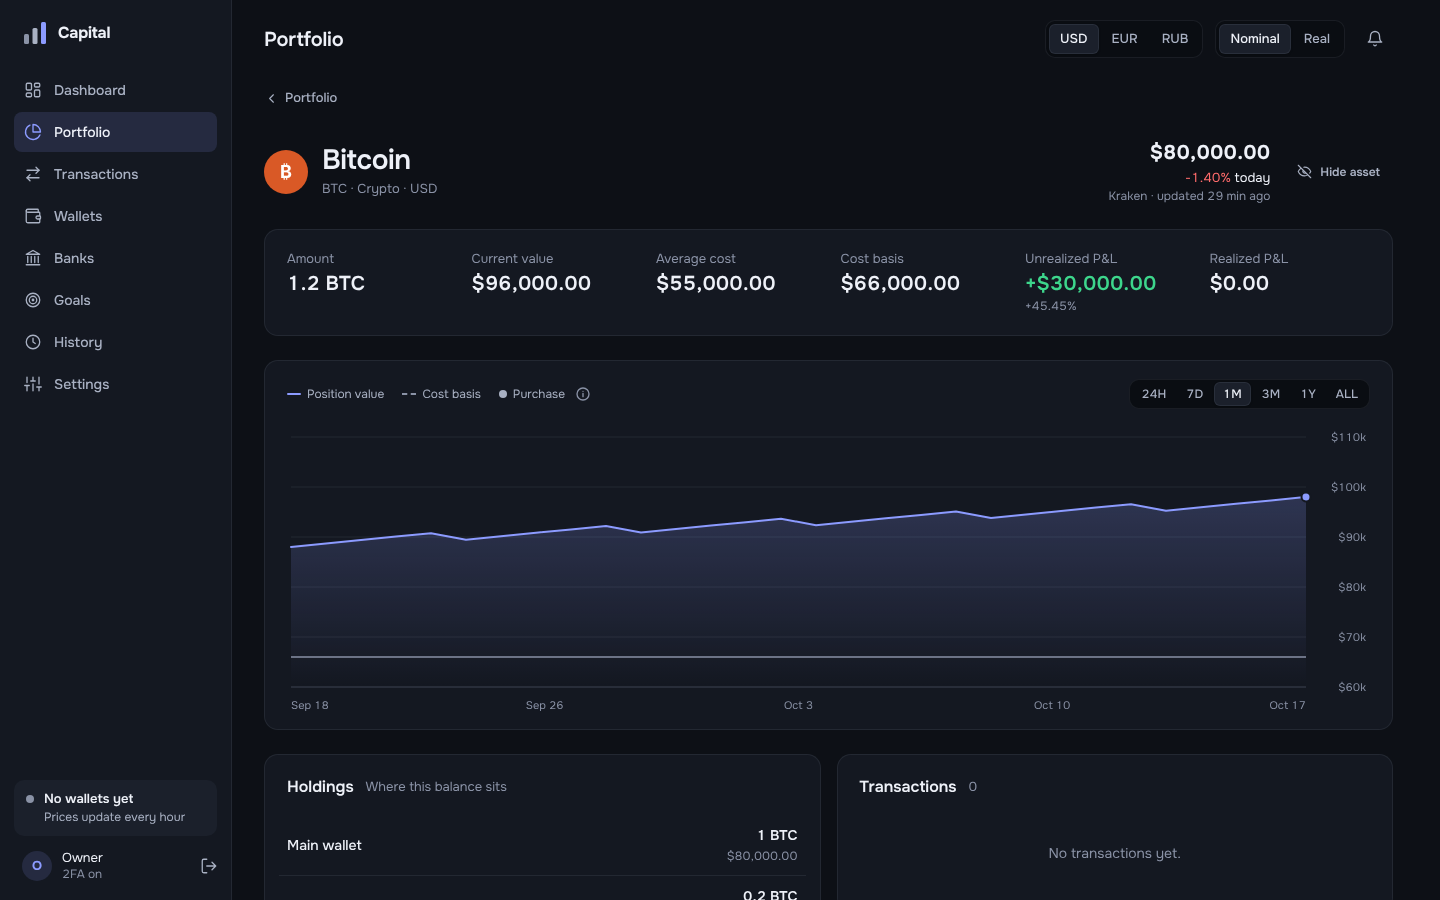
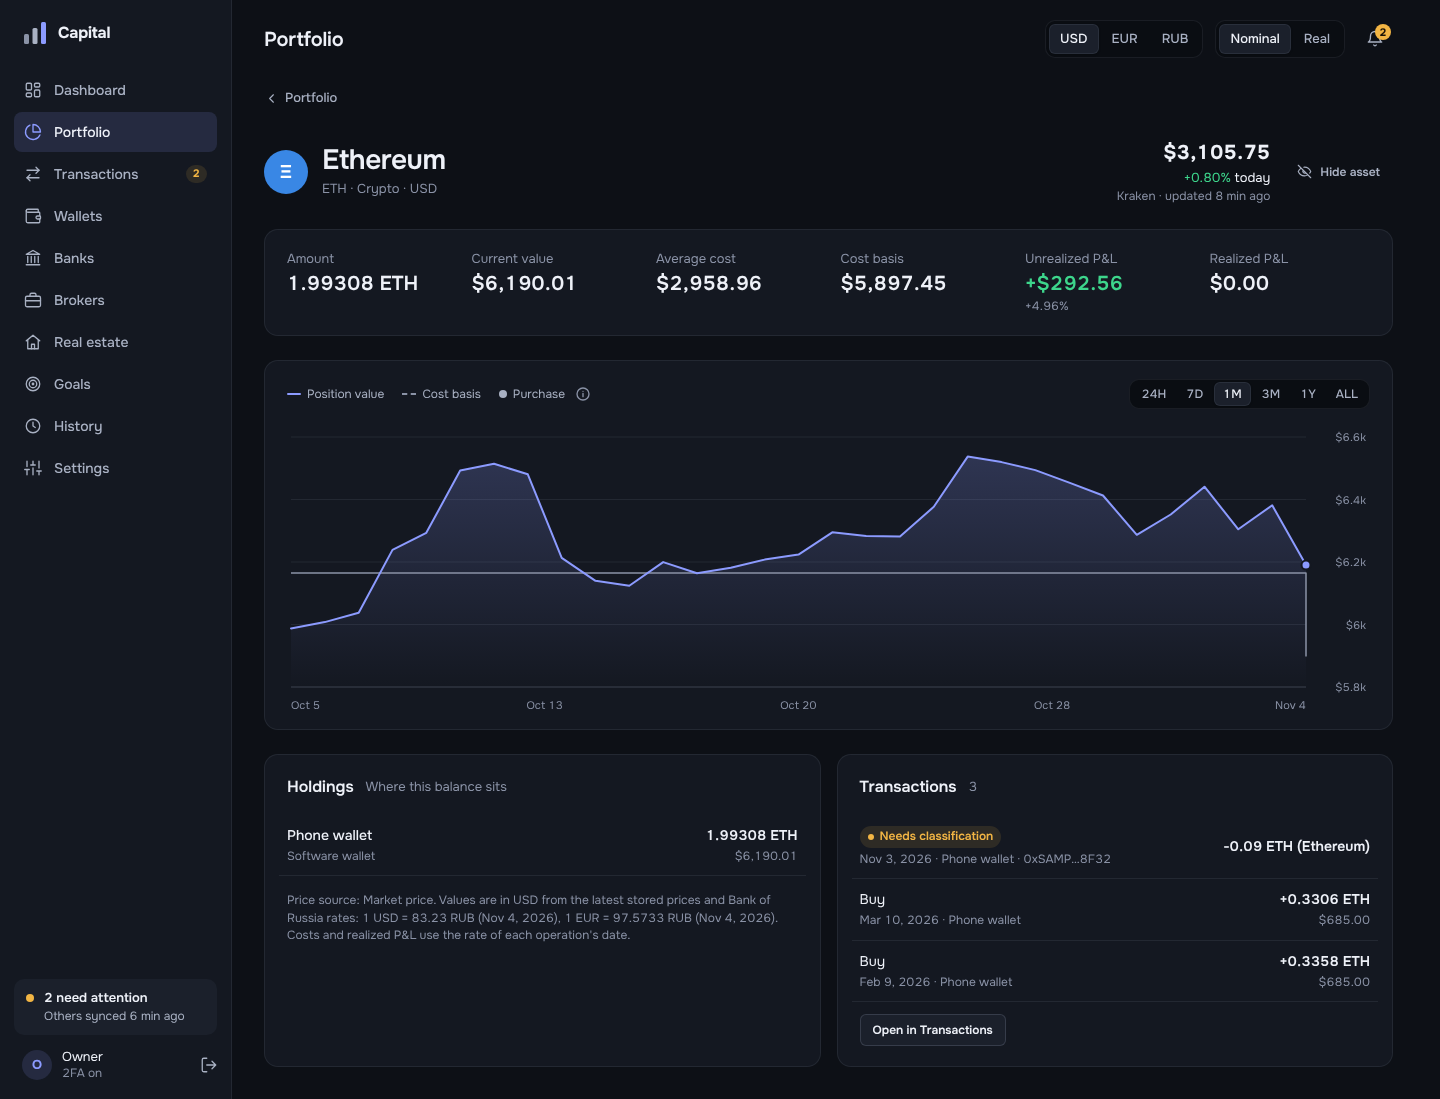
fix(portfolio): line up the holdings and transactions cards on an asset's page (#417)
On an asset's page the Holdings and Transactions cards sat side by side
with their own heights, so one ended above the other. Both now stretch
to the taller one, as on the dashboard and a wallet's page. Retake the
asset screenshots with synthetic data; the phone layout is one column.

Claude-Session: https://claude.ai/code/session_01UWvCBcQF8anG8Dr6NPe9jy

diff --git a/frontend/src/features/portfolio/portfolio.css b/frontend/src/features/portfolio/portfolio.css
@@ -228,11 +228,12 @@ a.portfolio-asset__name:hover {
   color: var(--warn);
 }
 
-/* Holdings and the asset's transactions side by side (prototype .two-col). */
+/* Holdings and the asset's transactions side by side (prototype .two-col), both cards as tall as
+   the taller one so they end on one line. */
 .portfolio-split {
   display: grid;
   grid-template-columns: repeat(auto-fit, minmax(min(360px, 100%), 1fr));
-  align-items: start;
+  align-items: stretch;
   gap: var(--sp-4);
 }
 
